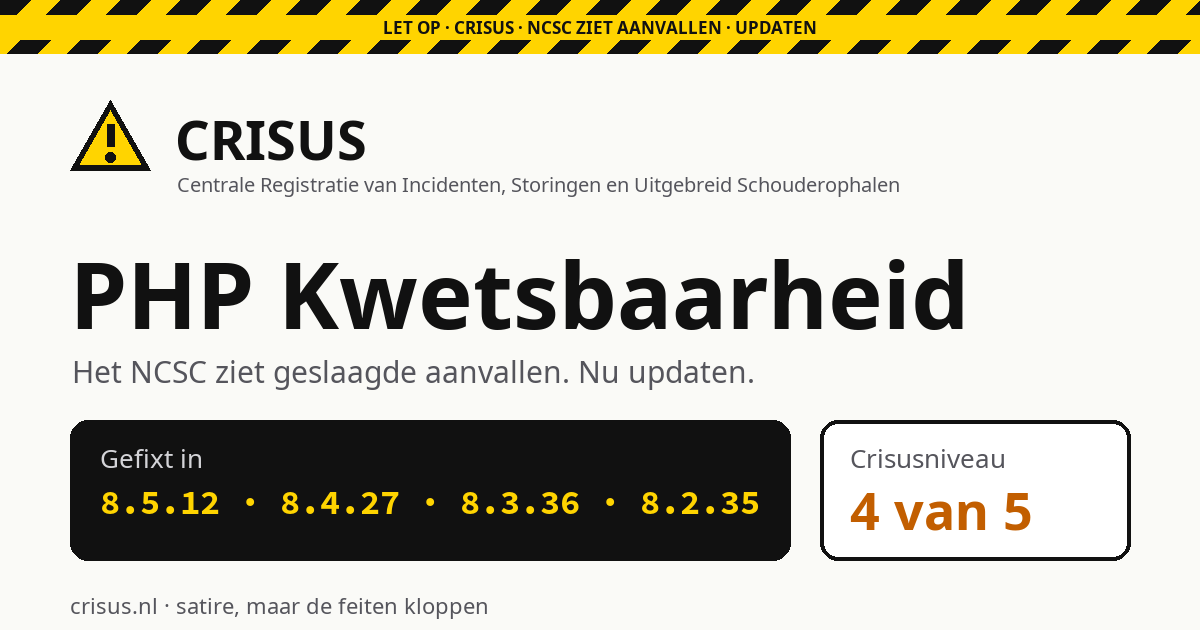
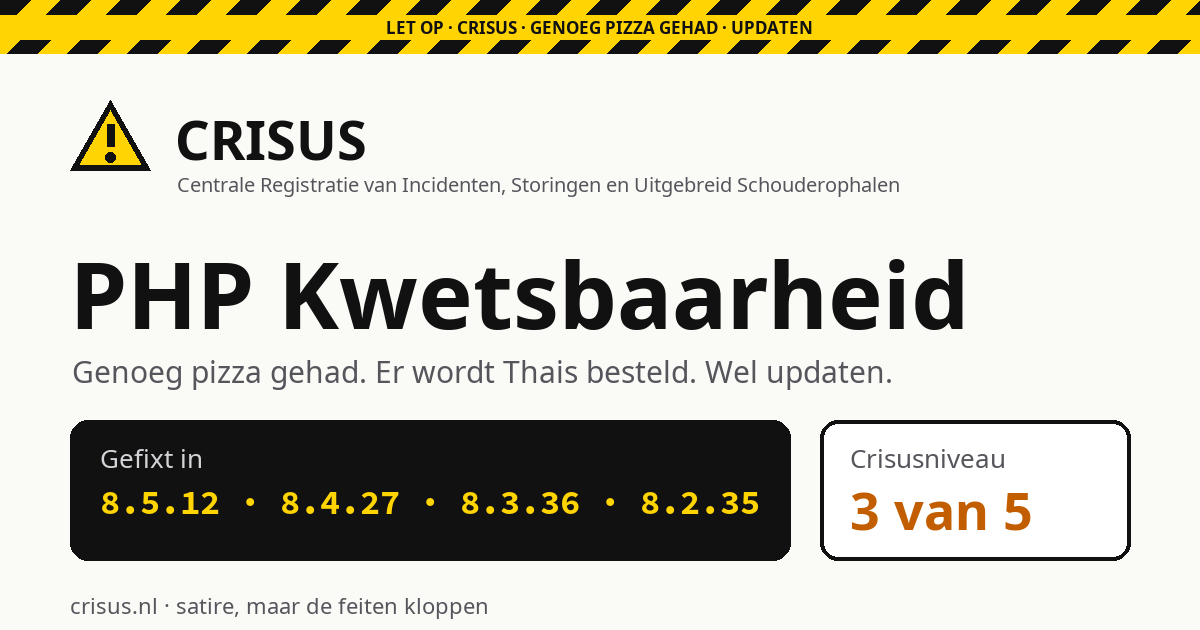
crisus.nl 23:00: crisusniveau 3 met Thais, Tweede Kamer terug, Angry Nerds 320, Dennis, diepere bronnen

Changed region(s): [[0.0617, 0.573, 0.74, 0.6333], [0.3083, 0.0302, 0.6783, 0.0603], [0.7092, 0.7841, 0.74, 0.8444]]

diff --git a/site/index.html b/site/index.html
@@ -6,19 +6,19 @@
 <title>Crisus · PHP Kwetsbaarheid</title>
 <meta name="description" content="Twee kritieke lekken in PHP (CVE-2026-109618 en CVE-2026-109619): wat er speelt, welke versies kwetsbaar zijn, welke versies de fix hebben en wat u nu kunt doen. Met bronnen. Satire, maar de feiten kloppen.">
 <meta property="og:title" content="Crisus · PHP Kwetsbaarheid">
-<meta property="og:description" content="Twee kritieke PHP-lekken. De patch is uit: PHP 8.5.12, 8.4.27, 8.3.36 en 8.2.35. Updaten dus. Crisusniveau 4: de manager vraagt of het al werkt. Het NCSC ziet geslaagd misbruik, dus patchen.">
+<meta property="og:description" content="Twee kritieke PHP-lekken. De patch is uit: PHP 8.5.12, 8.4.27, 8.3.36 en 8.2.35. Updaten dus. Crisusniveau 3: genoeg pizza gehad, er wordt Thais besteld. Het NCSC ziet geslaagd misbruik, dus patchen.">
 <meta property="og:url" content="https://crisus.nl/">
 <meta property="og:type" content="article">
 <meta property="og:site_name" content="Crisus">
 <meta property="og:locale" content="nl_NL">
 <meta property="article:published_time" content="2026-10-21T14:45:00+02:00">
-<meta property="article:modified_time" content="2026-10-22T22:00:00+02:00">
-<meta property="og:image" content="https://crisus.nl/og.png?v=4">
+<meta property="article:modified_time" content="2026-10-22T23:00:00+02:00">
+<meta property="og:image" content="https://crisus.nl/og.png?v=5">
 <meta property="og:image:width" content="1200">
 <meta property="og:image:height" content="630">
 <meta property="og:image:alt" content="Crisus: PHP Kwetsbaarheid. Gefixt in 8.5.12, 8.4.27, 8.3.36 en 8.2.35. Crisusniveau 3 van 5.">
 <meta name="twitter:card" content="summary_large_image">
-<meta name="twitter:image" content="https://crisus.nl/og.png?v=4">
+<meta name="twitter:image" content="https://crisus.nl/og.png?v=5">
 <meta name="twitter:title" content="Crisus · PHP Kwetsbaarheid">
 <meta name="twitter:description" content="Twee kritieke PHP-lekken, de patch is uit. Wat u moet doen, per platform, met bronnen. Satire, maar de feiten kloppen.">
 <meta name="theme-color" content="#ffd400">
@@ -39,7 +39,7 @@
   "url": "https://crisus.nl/",
   "inLanguage": "nl",
   "datePublished": "2026-10-21T14:45:00+02:00",
-  "dateModified": "2026-10-22T22:00:00+02:00",
+  "dateModified": "2026-10-22T23:00:00+02:00",
   "coverageStartTime": "2026-10-20T22:00:00+02:00",
   "about": [
     {"@type": "Thing", "name": "CVE-2026-109618", "sameAs": "https://www.cve.org/CVERecord?id=CVE-2026-109618"},
@@ -86,19 +86,19 @@
 </nav>
 
 <main id="inhoud" class="wrap">
-  <p class="kicker">Lopende crisus · <time datetime="2026-10-22T22:00:00+02:00">laatst bijgewerkt 22 oktober, 22:00</time></p>
+  <p class="kicker">Lopende crisus · <time datetime="2026-10-22T23:00:00+02:00">laatst bijgewerkt 22 oktober, 23:00</time></p>
   <h1>PHP Kwetsbaarheid</h1>
   <p class="lead">Twee kritieke lekken in PHP. De patch is uit: PHP <strong>8.5.12, 8.4.27, 8.3.36 en 8.2.35</strong>. Niet in paniek raken. Wel updaten. Nu. Het NCSC ziet de eerste geslaagde aanvallen.</p>
 
   <p class="klok" id="klok"><b>15:34</b><span>Sinds 21 oktober 15:34 (13:34 UTC) is de patch uit. Bijna een halfuur eerder dan gepland. Elke minuut op deze klok is een minuut zonder update. <a href="#patch-er-al" title="Is de patch er al voor mij?">Is de patch er al voor mij?</a></span></p>
 
   <section class="level" aria-labelledby="niveau">
-    <h2 id="niveau">Huidig crisusniveau: 4 van 5</h2>
+    <h2 id="niveau">Huidig crisusniveau: 3 van 5</h2>
     <ol>
       <li class="on"><b>1 · Rustig</b>Iemand leest de changelog</li>
       <li class="on"><b>2 · Opletten</b>Er is een Signal-groep</li>
-      <li class="on"><b>3 · Ernstig</b>Er is weer pizza besteld</li>
-      <li class="now" aria-current="step"><b>4 · Zeer ernstig</b>De manager vraagt of het al werkt</li>
+      <li class="now" aria-current="step"><b>3 · Ernstig</b>Genoeg pizza gehad. Er wordt Thais besteld.</li>
+      <li><b>4 · Zeer ernstig</b>De manager vraagt of het al werkt</li>
       <li><b>5 · Vrijdagmiddag</b>Iemand zegt: &ldquo;het is maar een kleine wijziging&rdquo;</li>
     </ol>
   </section>
@@ -172,7 +172,7 @@ sudo systemctl restart apache2 php8.4-fpm   <span class="c"># of wat u draait</s
   <p class="let"><strong>Let op: distributies backporten.</strong> Debian en Red Hat zetten de fix vaak in hun eigen versie, zonder het versienummer van php.net over te nemen. Vergelijk dus niet uw <code>php -v</code> met php.net. Zoek de CVE-nummers in de changelog van uw pakket. Staan ze erin, dan zit de fix erin.</p>
   <p class="note">De CVE-pagina&rsquo;s van de distributies hieronder kunnen nog even een 404 geven. Dat is geen goed nieuws. Het is helemaal geen nieuws.</p>
 
-  <h3 id="stand">Stand per platform, 22:00</h3>
+  <h3 id="stand">Stand per platform, 23:00</h3>
   <ul class="status" aria-labelledby="stand">
     <li><b>php.net</b><span class="pill green">Gepubliceerd</span><em>8.5.12, 8.4.27, 8.3.36, 8.2.35 sinds 15:34.</em></li>
     <li><b>Debian 13</b><span class="pill green">Fix beschikbaar</span><em><a href="https://security-tracker.debian.org/tracker/CVE-2026-109618" title="Debian security tracker: CVE-2026-109618">DSA-6574-1</a>: <code>php8.4 8.4.27-1~deb13u1</code>.</em></li>
@@ -309,7 +309,7 @@ curl -sI https://uw-site.nl | grep -i x-powered-by</code></pre>
     <li><b>Voetbal</b><span class="pill orange">Deels</span><em>FC Twente en FC Groningen zijn terug. De KNVB staat nog in onderhoudsmodus.</em></li>
     <li><b>Docker</b><span class="pill green">Fix beschikbaar</span><em>Ook de zwevende tags als <code>8.4-apache</code> en <code>latest</code>. Wel uw containers opnieuw aanmaken.</em></li>
     <li><b>DigiD.nl</b><span class="pill green">Terug</span><em>De website en het inloggen werken allebei weer.</em></li>
-    <li><b>Tweede Kamer</b><span class="pill red">Weer uit</span><em>Om 21:55 weer &ldquo;503 Backend fetch failed&rdquo;. Gisternacht ook al, van 01:55 tot 02:46. Geen melding over PHP.</em></li>
+    <li><b>Tweede Kamer</b><span class="pill green">Terug</span><em>Twee keer kort weg met &ldquo;503 Backend fetch failed&rdquo;: gisternacht van 01:55 tot 02:46, vanavond van 21:55 tot uiterlijk 22:27. Geen melding over PHP.</em></li>
     <li><b>Vlaanderen</b><span class="pill green">Terug</span><em>Als eerste uit, als eerste weer aan. Respect, nogmaals.</em></li>
     <li><b>Firewalls</b><span class="pill red">Nog geen fix</span><em>Palo Alto PAN-OS 10.2 tot en met 12.2 is kwetsbaar. Beheerinterface niet aan het internet. Cisco en Fortinet zoeken het nog uit.</em></li>
     <li><b>QNAP-NAS</b><span class="pill red">Nog geen fix</span><em>PHP2Shell zit ook in QTS en QuTS hero. Haal de NAS van het internet tot de update er is.</em></li>
@@ -329,6 +329,15 @@ curl -sI https://uw-site.nl | grep -i x-powered-by</code></pre>
 
   <h2 id="updates">Updates</h2>
   <ol class="updates" aria-labelledby="updates">
+    <li id="u-20261022-2300"><time datetime="2026-10-22T23:00+02:00">22 oktober 23:00</time>
+      <p>De Tweede Kamer is terug. Om 22:27 staat tweedekamer.nl er weer gewoon. Wat het was? Wij hebben gezocht: geen melding van de Kamer, geen nieuwsbericht, niets. Wat we wel weten: twee keer dezelfde foutpagina, &ldquo;503 Backend fetch failed&rdquo;, twee keer rond vijf voor heel. Gisternacht om 01:55, vanavond om 21:55.</p>
+      <p>Onze theorie, nadrukkelijk zonder bron: de Guru die op die foutpagina staat, mediteert elke avond om vijf voor heel. Een andere theorie, ook zonder bron: een oude Windows-server die om tien uur zijn dagelijkse herstart doet. Dat verklaart vanavond. Gisternacht om twee uur niet. Tenzij hij die nacht ook updates installeerde. Tot de Kamer iets anders zegt, houden wij het op allebei. Zeg het niet tegen de Griffie.</p>
+      <p><strong>Terugkijken:</strong> deze crisus heeft nu zijn eigen podcastaflevering. <a href="https://www.youtube.com/watch?v=4-cZxyKKE1E" title="Angry Nerds 320 - Crisus.nl">Angry Nerds 320</a> heet gewoon &ldquo;Crisus.nl&rdquo;. Bijna twee uur over de cybers, met de maker van deze pagina aan tafel. Over PHP, de eMudhra-certificaten en hoe zo&rsquo;n statusbord eigenlijk tot stand komt. Spoiler: met koffie.</p>
+      <p><strong>Uit de diepere bronnen.</strong> Op <a href="https://www.openwall.com/lists/oss-security/2026/10/22/13" title="oss-security: Unofficial backports for CVE-2026-109618 / CVE-2026-109619 to EOL PHP 7.3 and 5.4/5.3">oss-security</a> delen mensen onofficiële backports van de fix voor PHP 7.3, en zelfs voor 5.4 en 5.3, voor Amazon Linux. PHP 5.3 is uit 2009. Het draait blijkbaar nog ergens. Het krijgt nu dus ook nog een patch. Van een vrijwilliger.</p>
+      <p>In <a href="https://github.com/php/php-src/commits/PHP-8.5" title="php-src: commits op PHP-8.5">php-src</a> kwamen vandaag nog meer geheugenfixes binnen voor 8.4 en 8.5: &ldquo;JIT: Fix use-after-free in ASSIGN_DIM_OP with CONCAT&rdquo;, &ldquo;GC double-frees the SimpleXMLElement properties table&rdquo; en een lek in de HTTP-wrapper. Een advisory hoort er (nog) niet bij, dus officieel is het geen nieuws. Maar wie de commits leest, ziet de volgende release al aankomen.</p>
+      <p>En PHP2Shell staat nog niet op de <a href="https://www.cisa.gov/known-exploited-vulnerabilities-catalog" title="CISA: Known Exploited Vulnerabilities Catalog">KEV-lijst</a> van de Amerikaanse CISA, de lijst van lekken die aantoonbaar worden misbruikt. Ook al ziet het NCSC al geslaagde aanvallen. Komt hij erop, dan leest u het hier.</p>
+      <p>En dan de stem van het volk. Dennis, de vaste briefschrijver van <a href="https://www.retecool.com/bericht-van-dennis-php/" title="Retecool: Bericht van Dennis: PHP">Retecool</a>, heeft ook een mening: &ldquo;PHP LEK!!! OF PEEHAAPEE ZOALS DIE DESKUNDIGEN DAT NOEMEN!!!&rdquo; En: &ldquo;Hoe kan een taal lekken?? Ik spreek al mijn hele leven Nederlands en daar is nog nooit wat uitgelopen.&rdquo; Over open source heeft Dennis ook een voorstel: &ldquo;Linda zegt dat PHP gratis is. GRATIS??? Nou waarom maken ze er dan niet gewoon TWEE???&rdquo; Ook satire. Collega&rsquo;s.</p>
+      <p><strong>Crisusniveau terug naar 3.</strong> Besluit van de crisusmanager. De meeste sites zijn terug, de grote distributies hebben hun pakketten en de manager vraagt niet meer of het al werkt. Wel ziet het NCSC geslaagde aanvallen, dus helemaal rustig is het niet. Niveau 3 dus, maar dit keer zonder pizza. Daar hebben we na twee dagen wel genoeg van gehad. Er wordt Thais besteld.</p></li>
     <li id="u-20261022-2200"><time datetime="2026-10-22T22:00+02:00">22 oktober 22:00</time>
       <p>De Tweede Kamer is weer even weg. Om 21:55 geeft tweedekamer.nl opnieuw alleen &ldquo;503 Backend fetch failed&rdquo;. Net als gisternacht, toen het van 01:55 tot 02:46 duurde. Ook nu geen melding over PHP. Of het onderhoud is of iets anders, zegt de Kamer niet. Wij noteren het. De Kamer had vandaag zelf ook al <a href="#u-20261022-1300" title="Update van 13:00">vragen</a> over sites die offline gaan.</p>
       <p>Verder blijft het rustig. Geen nieuwe release, geen nieuwe advisory.</p></li>
@@ -539,8 +548,10 @@ curl -sI https://uw-site.nl | grep -i x-powered-by</code></pre>
     <li><a href="https://kb.isc.org/docs/cve-2026-94300" title="ISC: CVE-2026-94300: Concurrent GSS-TSIG messages corrupt memory">ISC: CVE-2026-94300 in BIND 9</a> en <a href="https://www.debian.org/security/2026/dsa-6576" title="DSA-6576-1: bind9 security update">Debian DSA-6576-1</a>. Het is nog geen DNS.</li>
     <li><a href="https://www.phoronix.com/news/LKML-New-Trend-Vulnerabilities" title="Phoronix: Several Linux Kernel Vulnerabilities Accidentally Posted To Public Kernel Mailing List">Phoronix: Several Linux Kernel Vulnerabilities Accidentally Posted To Public Kernel Mailing List</a>.</li>
     <li><a href="https://nos.nl/l/2636214" title="NOS: Podcast De Dag: de kwetsbaarheid van PHP, de onderbroek van het internet">NOS, De Dag: de kwetsbaarheid van PHP, &lsquo;de onderbroek&rsquo; van het internet</a>. De podcast, voor wie liever luistert.</li>
-    <li><a href="https://www.youtube.com/c/angrynerdspodcast" title="Angry Nerds Podcast">Angry Nerds Podcast</a>. Vanavond over de cybers, met de maker van deze pagina.</li>
+    <li><a href="https://www.youtube.com/c/angrynerdspodcast" title="Angry Nerds Podcast">Angry Nerds Podcast</a>, aflevering 320: <a href="https://www.youtube.com/watch?v=4-cZxyKKE1E" title="Angry Nerds 320 - Crisus.nl">Angry Nerds 320</a> &ldquo;Crisus.nl&rdquo;. Met de maker van deze pagina.</li>
     <li><a href="https://nos.nl/l/2636225" title="NOS: Signalen bij Nationaal Cyber Security Centrum van misbruik PHP-lek">NOS: Signalen bij Nationaal Cyber Security Centrum van misbruik PHP-lek</a>. Met de telling van 113.000 en 145.000 sites.</li>
+    <li><a href="https://www.retecool.com/bericht-van-dennis-php/" title="Retecool: Bericht van Dennis: PHP">Retecool: Bericht van Dennis: PHP</a>. Satire, net als hier. Maar dan in hoofdletters.</li>
+    <li><a href="https://www.openwall.com/lists/oss-security/2026/10/22/13" title="oss-security: Unofficial backports for CVE-2026-109618 / CVE-2026-109619 to EOL PHP 7.3 and 5.4/5.3">oss-security</a>: onofficiële backports naar PHP 7.3, 5.4 en 5.3. De <a href="https://www.cisa.gov/known-exploited-vulnerabilities-catalog" title="CISA: Known Exploited Vulnerabilities Catalog">KEV-lijst</a> van CISA. En de commits van <a href="https://github.com/php/php-src/commits/PHP-8.5" title="php-src: commits op PHP-8.5">php-src</a>.</li>
     <li><a href="https://nodejs.org/en/blog/vulnerability/october-2026-security-releases" title="Node.js: October 2026 security releases">Node.js: October 2026 security releases</a>. Ook vandaag.</li>
     <li><a href="https://fedi.katze.sh/@elise/117478725808527006" title="Fediverse-draad van @elise@fedi.katze.sh over een nieuwe PHP-bug">@elise@fedi.katze.sh</a> over een nieuwe, nog niet openbare PHP-bug. E&eacute;n bron, onbevestigd.</li>
     <li><a href="https://www.vi.nl/nieuws/nederlandse-profclubs-halen-website-offline-vanwege-ernstige-beveiligingslekken" title="VI: Nederlandse profclubs halen website offline vanwege ernstige beveiligingslekken">VI: Nederlandse profclubs halen website offline</a>. Welke clubs, met de verklaring van FC Twente.</li>
